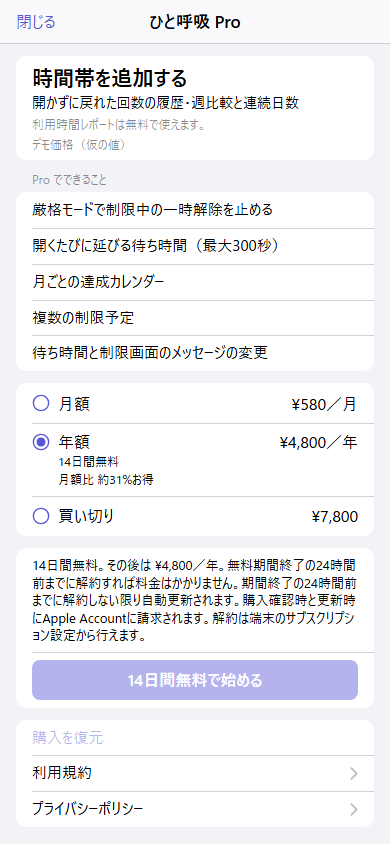
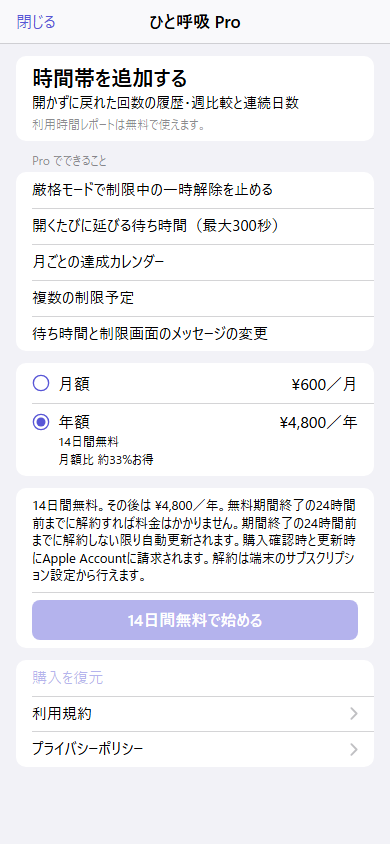
Set confirmed subscription prices (600/4800 JPY) and drop provisional marks (Antigravity)
0ef7064ddc1d038f4eb1459c6672841212a6a268

Changed region(s): [[0.0615, 0.154, 0.9231, 0.9858], [0.7077, 0.4313, 0.9231, 0.5545], [0.2462, 0.9242, 0.3385, 0.9858]]

diff --git a/App/Paywall.swift b/App/Paywall.swift
@@ -28,7 +28,6 @@ struct Paywall: View {
                     Text("利用時間レポートは無料で使えます。")
                         .font(.footnote)
                         .foregroundStyle(.secondary)
-                    if demo { Text("デモ価格（仮の値）").foregroundStyle(.secondary) }
                 }
                 Section("Pro でできること") {
                     Text("厳格モードで制限中の一時解除を止める")
@@ -59,7 +58,7 @@ struct Paywall: View {
                                 if option == .yearly {
                                     if demo || trial { Text("14日間無料").font(.footnote) }
                                     if let savings = yearlySavings {
-                                        Text("月額比 約\(savings)%お得" + (demo ? "（仮）" : "")).font(.footnote)
+                                        Text("月額比 約\(savings)%お得").font(.footnote)
                                     }
                                 }
                             }
@@ -151,8 +150,9 @@ struct Paywall: View {
     private var hasTrial: Bool { selected == .yearly && (demo || trial) }
 
     private var yearlySavings: Int? {
-        if demo { return 31 }
-        guard let monthly = products[.monthly]?.price, let yearly = products[.yearly]?.price,
+        let monthly = products[.monthly]?.price ?? (demo ? Decimal(ProProduct.monthly.jpyPrice) : nil)
+        let yearly = products[.yearly]?.price ?? (demo ? Decimal(ProProduct.yearly.jpyPrice) : nil)
+        guard let monthly, let yearly,
               monthly > 0, yearly < monthly * 12 else { return nil }
         let savings = (1 - yearly / (monthly * 12)) * 100
         let percent = Int(NSDecimalNumber(decimal: savings).doubleValue.rounded())
@@ -166,24 +166,17 @@ struct Paywall: View {
     private func displayPrice(_ option: ProProduct) -> String {
         if let product = products[option] { return option.price(product) }
         guard demo else { return "" }
-        // Mirrors the local test prices in ScreenPause.storekit.
-        switch option {
-        case .monthly: return "¥580／月（仮）"
-        case .yearly: return "¥4,800／年（仮）"
-        case .lifetime: return "¥7,800（仮）"
-        }
+        return option.confirmedDisplayPrice
     }
 
     private var purchaseTerms: String {
         let price = displayPrice(selected)
-        let provisional = demo ? "（デモ用の仮価格）" : ""
         let renewal = "期間終了の24時間前までに解約しない限り自動更新されます。購入確認時と更新時にApple Accountに請求されます。解約は端末のサブスクリプション設定から行えます。"
         switch selected {
-        case .monthly: return "\(price)\(provisional)。\(renewal)"
+        case .monthly: return "\(price)。\(renewal)"
         case .yearly where hasTrial:
-            return "14日間無料。その後は \(price)\(provisional)。無料期間終了の24時間前までに解約すれば料金はかかりません。\(renewal)"
-        case .yearly: return "\(price)\(provisional)。\(renewal)"
-        case .lifetime: return "\(price)\(provisional) の一度のお支払いで、Pro を利用できます。"
+            return "14日間無料。その後は \(price)。無料期間終了の24時間前までに解約すれば料金はかかりません。\(renewal)"
+        case .yearly: return "\(price)。\(renewal)"
         }
     }
 

diff --git a/App/ProStore.swift b/App/ProStore.swift
@@ -6,7 +6,6 @@ import StoreKit
 enum ProProduct: String, CaseIterable, Identifiable {
     case monthly = "jp.screenpause.app.pro.monthly"
     case yearly = "jp.screenpause.app.pro.yearly"
-    case lifetime = "jp.screenpause.app.pro.lifetime"
 
     var id: String { rawValue }
 
@@ -14,7 +13,21 @@ enum ProProduct: String, CaseIterable, Identifiable {
         switch self {
         case .monthly: "月額"
         case .yearly: "年額"
-        case .lifetime: "買い切り"
+        }
+    }
+
+    var jpyPrice: Int {
+        switch self {
+        case .monthly: 600
+        case .yearly: 4800
+        }
+    }
+
+    var confirmedDisplayPrice: String {
+        let amount = jpyPrice.formatted(.number.locale(Locale(identifier: "ja_JP")))
+        switch self {
+        case .monthly: return "¥\(amount)／月"
+        case .yearly: return "¥\(amount)／年"
         }
     }
 
@@ -22,7 +35,6 @@ enum ProProduct: String, CaseIterable, Identifiable {
         switch self {
         case .monthly: "\(product.displayPrice)／月"
         case .yearly: "\(product.displayPrice)／年"
-        case .lifetime: product.displayPrice
         }
     }
 
@@ -61,12 +73,8 @@ final class ProStore {
         var access: ProAccess?
         for await result in Transaction.currentEntitlements {
             guard case .verified(let transaction) = result,
-                  let product = ProProduct(rawValue: transaction.productID),
+                  ProProduct(rawValue: transaction.productID) != nil,
                   transaction.revocationDate == nil, !transaction.isUpgraded else { continue }
-            if product == .lifetime {
-                access = ProAccess(expires: nil, willAutoRenew: nil)
-                break
-            }
             if let subscription = await subscriptionAccess(for: transaction),
                let end = subscription.projectedEnd, end > (access?.projectedEnd ?? .distantPast) {
                 access = subscription

diff --git a/tools/preview/paywall.html b/tools/preview/paywall.html
@@ -175,7 +175,6 @@
         <h2 class="headline">時間帯を追加する</h2>
         <p class="sub-copy">開かずに戻れた回数の履歴・週比較と連続日数</p>
         <p class="footnote">利用時間レポートは無料で使えます。</p>
-        <p class="footnote">デモ価格（仮の値）</p>
       </div>
     </section>
 
@@ -199,7 +198,7 @@
             </svg>
             <span>月額</span>
           </span>
-          <span class="price">¥580／月</span>
+          <span class="price">¥600／月</span>
         </div>
       </div>
       <div class="row plan-row">
@@ -214,18 +213,7 @@
           <span class="price">¥4,800／年</span>
         </div>
         <div class="plan-meta">14日間無料</div>
-        <div class="plan-meta">月額比 約31%お得</div>
-      </div>
-      <div class="row plan-row">
-        <div class="plan-top">
-          <span class="plan-name">
-            <svg class="radio-icon" viewBox="0 0 20 20" aria-hidden="true">
-              <circle cx="10" cy="10" r="8.5" fill="none" stroke="currentColor" stroke-width="1.5"></circle>
-            </svg>
-            <span>買い切り</span>
-          </span>
-          <span class="price">¥7,800</span>
-        </div>
+        <div class="plan-meta">月額比 約33%お得</div>
       </div>
     </section>
 

diff --git a/docs/legal/terms.md b/docs/legal/terms.md
@@ -9,11 +9,11 @@ title: ひと呼吸の利用規約
 
 ## Proの購入
 
-利用時間レポートは無料で利用できます。Proでは開かずに戻れた回数の履歴・週比較と連続日数、月ごとの達成カレンダー、複数の制限予定、厳格モード、待ち時間と制限画面のメッセージの変更を利用できます。月額と年額は自動更新のサブスクリプションです。買い切りは一度の支払いでProを利用できる購入で、自動更新はありません。価格と対象となる無料期間は購入画面に表示します。
+利用時間レポートは無料で利用できます。Proでは開かずに戻れた回数の履歴・週比較と連続日数、月ごとの達成カレンダー、複数の制限予定、厳格モード、待ち時間と制限画面のメッセージの変更を利用できます。月額 ¥600・年額 ¥4,800（年額は月額比 約33%お得）の自動更新サブスクリプションです。価格と対象となる無料期間は購入画面に表示します。
 
 ## 自動更新と無料体験
 
-購入が確定するとApple Accountに請求されます。年額の14日間無料体験が購入画面に表示される場合、無料期間の終了後は画面に表示された年額で更新されます。無料期間または契約期間が終了する24時間前までに解約しない限り自動更新され、期間終了前の24時間以内に更新分が請求されます。
+購入が確定するとApple Accountに請求されます。年額の14日間無料体験が購入画面に表示される場合、無料期間の終了後は年額 ¥4,800（購入画面に表示された金額）で更新されます。無料期間または契約期間が終了する24時間前までに解約しない限り自動更新され、期間終了前の24時間以内に更新分が請求されます。
 
 ## 解約、復元、返金
 

diff --git a/docs/qa-states.md b/docs/qa-states.md
@@ -32,7 +32,7 @@
 
 - 新規起動の最初の画面から計時する。許可してアプリを1つ選び、「今から1時間の制限を始める」を押す。ホーム画面かアプリスイッチャーから対象を開き、OSの許可・認証・アプリ選択も含めて実際のシールド表示まで60秒以内か記録する。
 - 許可を拒否、取り消し、または保護者が制限した状態で案内を確認する。拒否・取り消し時は「設定を開く」からiOSが管理するアプリの設定に進む。スクリーンタイム側の権限一覧に移動できるかと、再許可後に選び直して制限が戻るかを確認する。保護者による制限時は、保護者への案内と再試行を確認する。
-- StoreKit が月額や買い切りだけを返した場合、価格を取得できたプランから購入操作へ進めることを確認する。再読み込みで年額が取得できた場合は、年額を選ぶと対応する価格と無料体験の条件が出ることを確認する。
+- StoreKit が月額だけを返した場合、価格を取得できたプランから購入操作へ進めることを確認する。再読み込みで年額が取得できた場合は、年額を選ぶと対応する価格と無料体験の条件が出ることを確認する。
 - 制限を保存した端末でアプリを終了して開き直し、保存済みの対象と予定でホームを開けることを確認する。再起動直後に許可が未決定と報告された場合も、承認が戻れば選び直しは不要。
 - 小型iPhoneで文字サイズをAX5にし、VoiceOverで実際のシールドの主・副ボタンを読む。欠けや重なりがなく、30秒より前は開かず、経過後の再押下で開けるかを確認する。iOSが描画するシールドの文字拡大と読み上げ順は実機確認待ち。
 

diff --git a/README.md b/README.md
@@ -22,7 +22,7 @@ xcodebuild -project ScreenPause.xcodeproj -scheme ScreenPause -destination 'gene
 ## 購入画面の確認
 
 1. Xcode のスキームで「実行 → オプション」の StoreKit 設定が `ScreenPause.storekit` になっていることを確認します。「実行 → 引数」に `--storekit-test` を追加し、デバッグ用シミュレータで起動します。
-2. 「2件目の予定を追加」を押し、年額が選択済みで、対象なら14日間無料とその後の年額が表示されることを確認します。月額と買い切りも選択できます。表示価格は StoreKit のローカル設定に入れた仮の値です。
+2. 「2件目の予定を追加」を押し、年額（¥4,800／年・月額比 約33%お得）が選択済みで、対象なら14日間無料とその後の年額が表示されることを確認します。月額（¥600／月）も選択できます。表示価格は StoreKit のローカル設定に入れた確定価格です。
 3. テスト購入後に購入画面が閉じ、「Pro 利用中」になることを確認します。Xcode の StoreKit トランザクション管理で購入を取り消し、「無料プラン」に戻ることを確認します。購入履歴のある無料状態から「購入を復元」も確認します。
 
 App Store に出す前に、[提出チェックリスト](docs/release-checklist.md)に沿って商品と年額の無料オファーを登録します。利用規約とプライバシーポリシーの公開先は、本体のビルド設定 `SCREEN_PAUSE_LEGAL_BASE_URL` で指定します。

diff --git a/STATUS.md b/STATUS.md
@@ -17,3 +17,4 @@
 - [公開前の文字列監査](docs/publish-review.md) は追跡済み53件すべてを確認。認証情報の候補は0件。
 - [継続利用レビュー round 3](docs/critique-r2.md#round-3) は5件を修正。復旧時の保存文言と購入プランの再読み込みを修正し、実シールドのライブ残秒表示は保留。Node 全件はランナー実行待ち。
 - [Round 4 の機能照合](docs/benchmark.md)：Pro の段階的な待ち時間（10→20→40→60秒、午前0時に戻る。0秒のときは延長不可）と保存結果に基づく月ごとの記録を追加した。残り秒数はアプリ本体のホームとプレビューに表示し、待ち時間の一致と有効期限を Action と揃えた。対象の Node 検査は通過。全件検査はランナー待ち。Swift のビルドと実機表示は未確認。審査メモと掲載文には、段階的な待ち時間をまだ書いていない。
+- 価格確定（2026-11-27）：月額 ¥600・年額 ¥4,800（自動更新サブスクのみ・買い切り廃止、年額は月額比 約33%お得）を `ProStore.swift` / `Paywall.swift` / `ScreenPause.storekit` / 掲載文・規約・チェックリスト・プレビュー・Node 検査へ反映。Swift ビルドは Windows 環境のため未確認。
